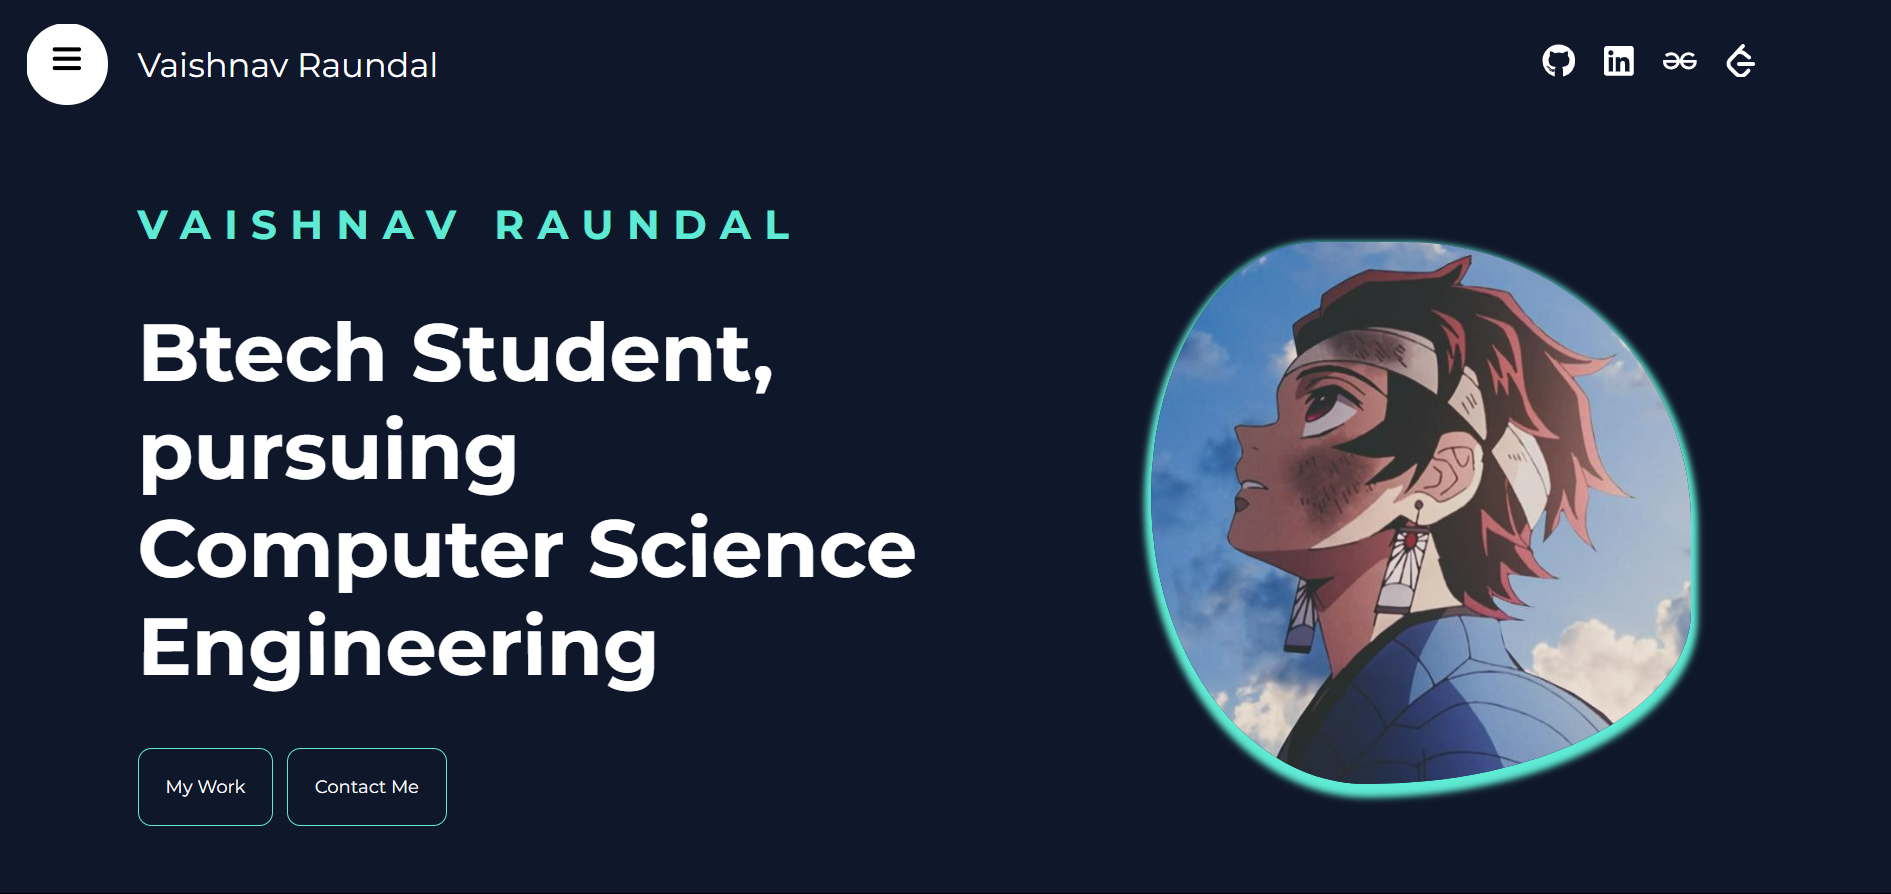
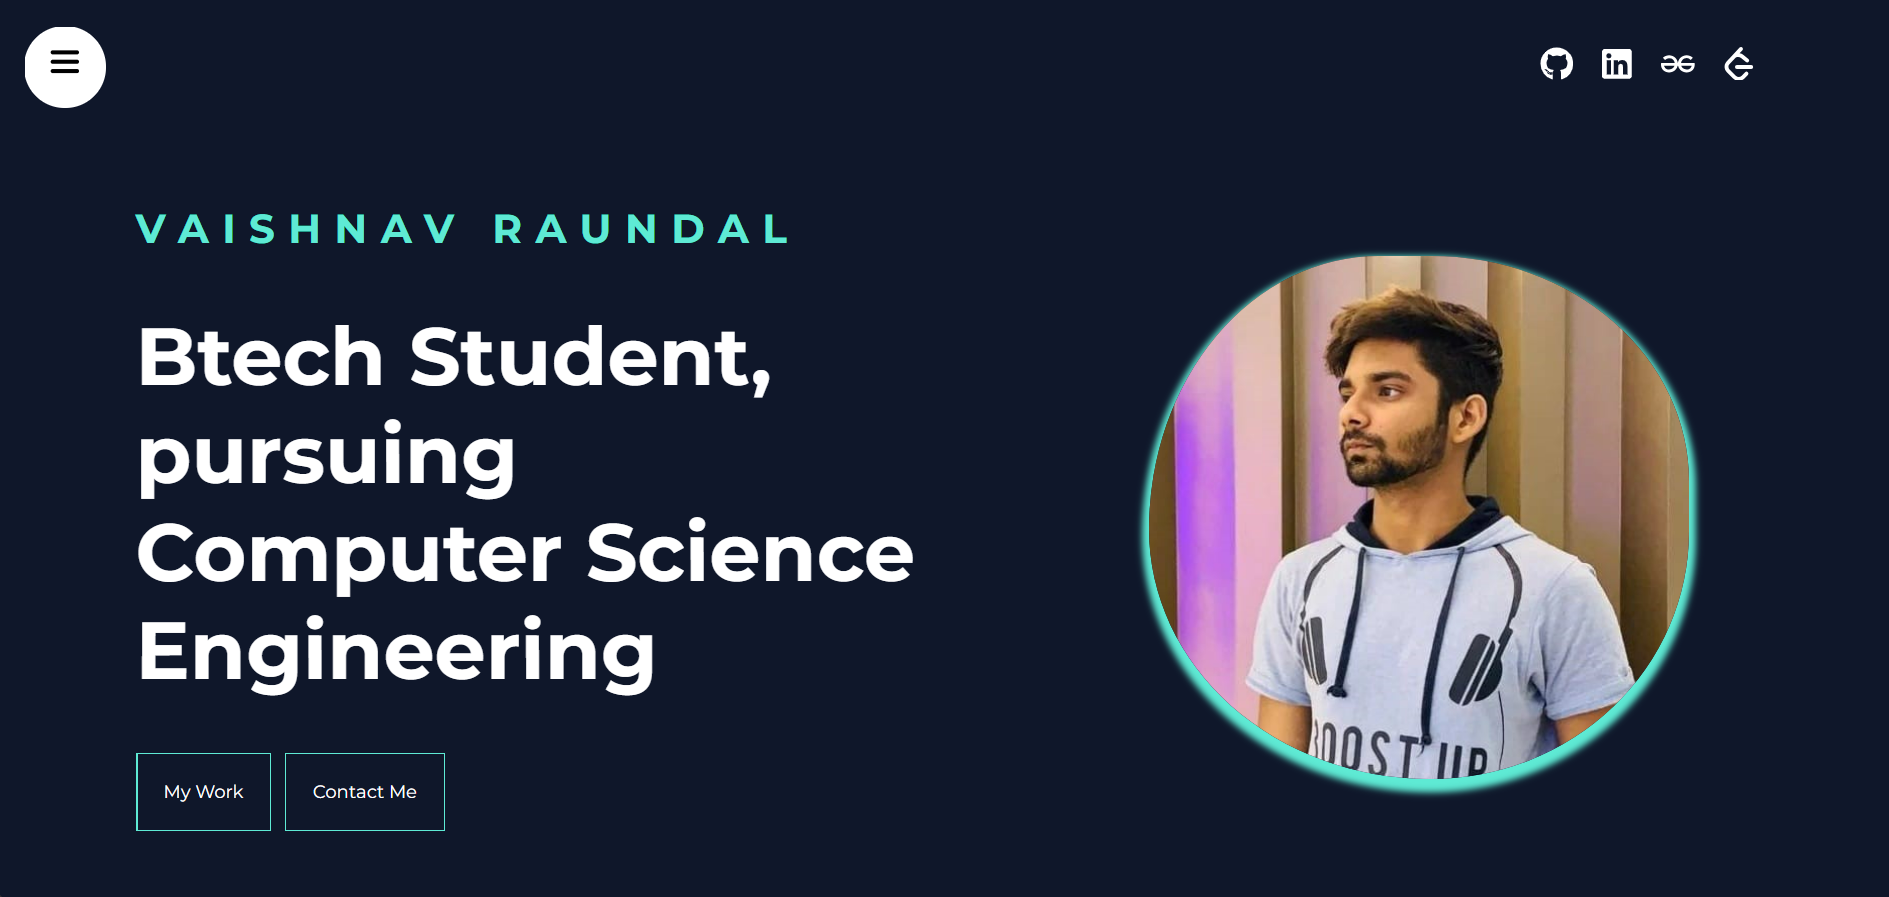
changed the image

diff --git a/src/components/Navbar/Navbar.jsx b/src/components/Navbar/Navbar.jsx
@@ -17,7 +17,7 @@ const Navbar = () => {
               initial={{opacity:0, scale:0}}
               animate={{opacity:1, scale:1}}
               transition={{duration:0.5}} 
-            ></motion.span>
+            >Vaishnav Raundal</motion.span>
             <motion.div className="social" 
               initial={{opacity:0, scale:0}}
               animate={{opacity:1, scale:1}}
